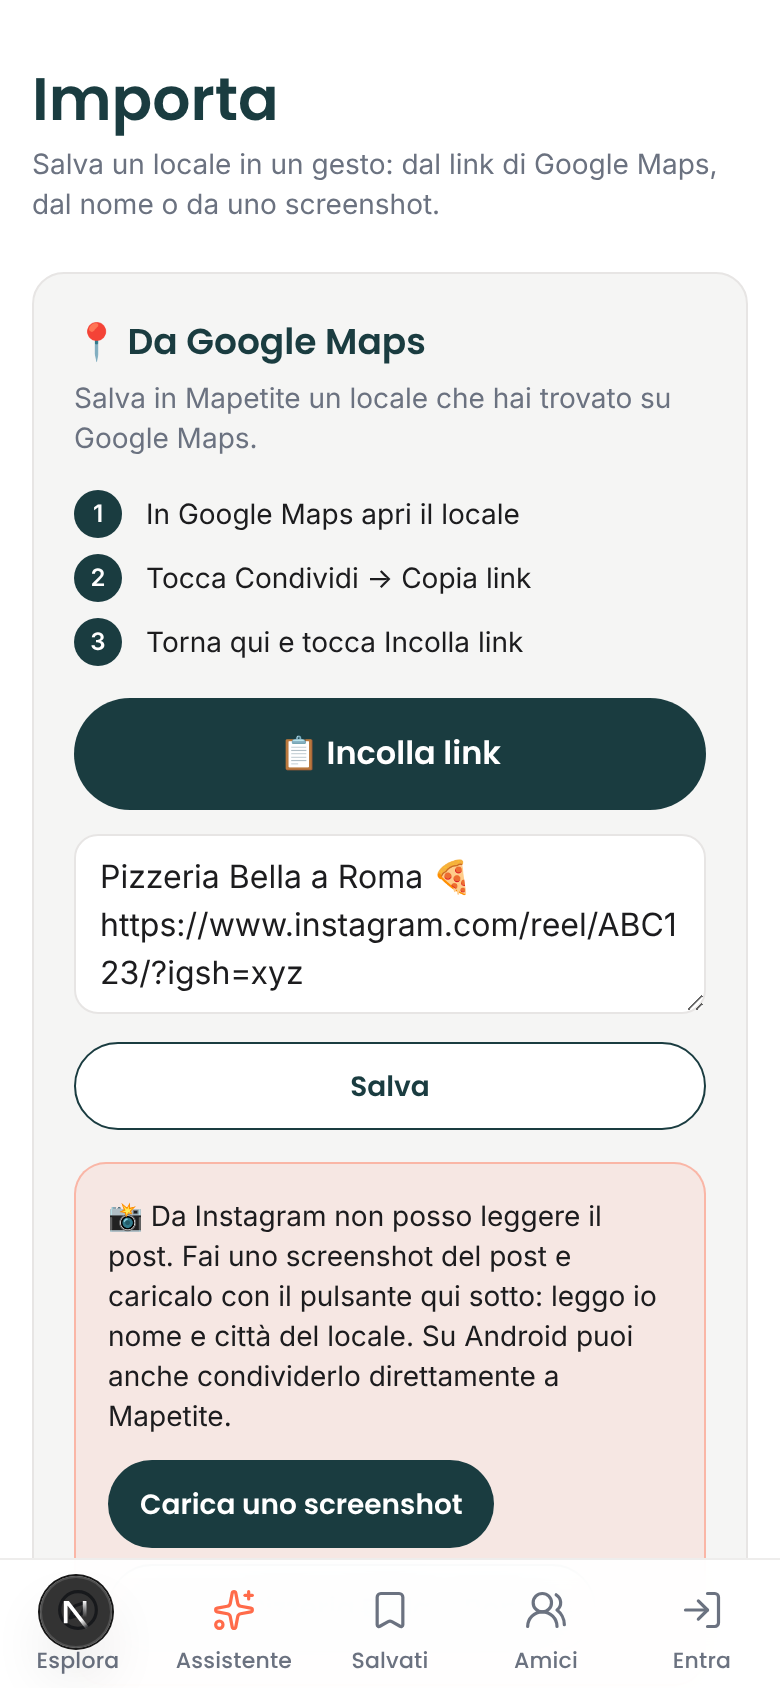
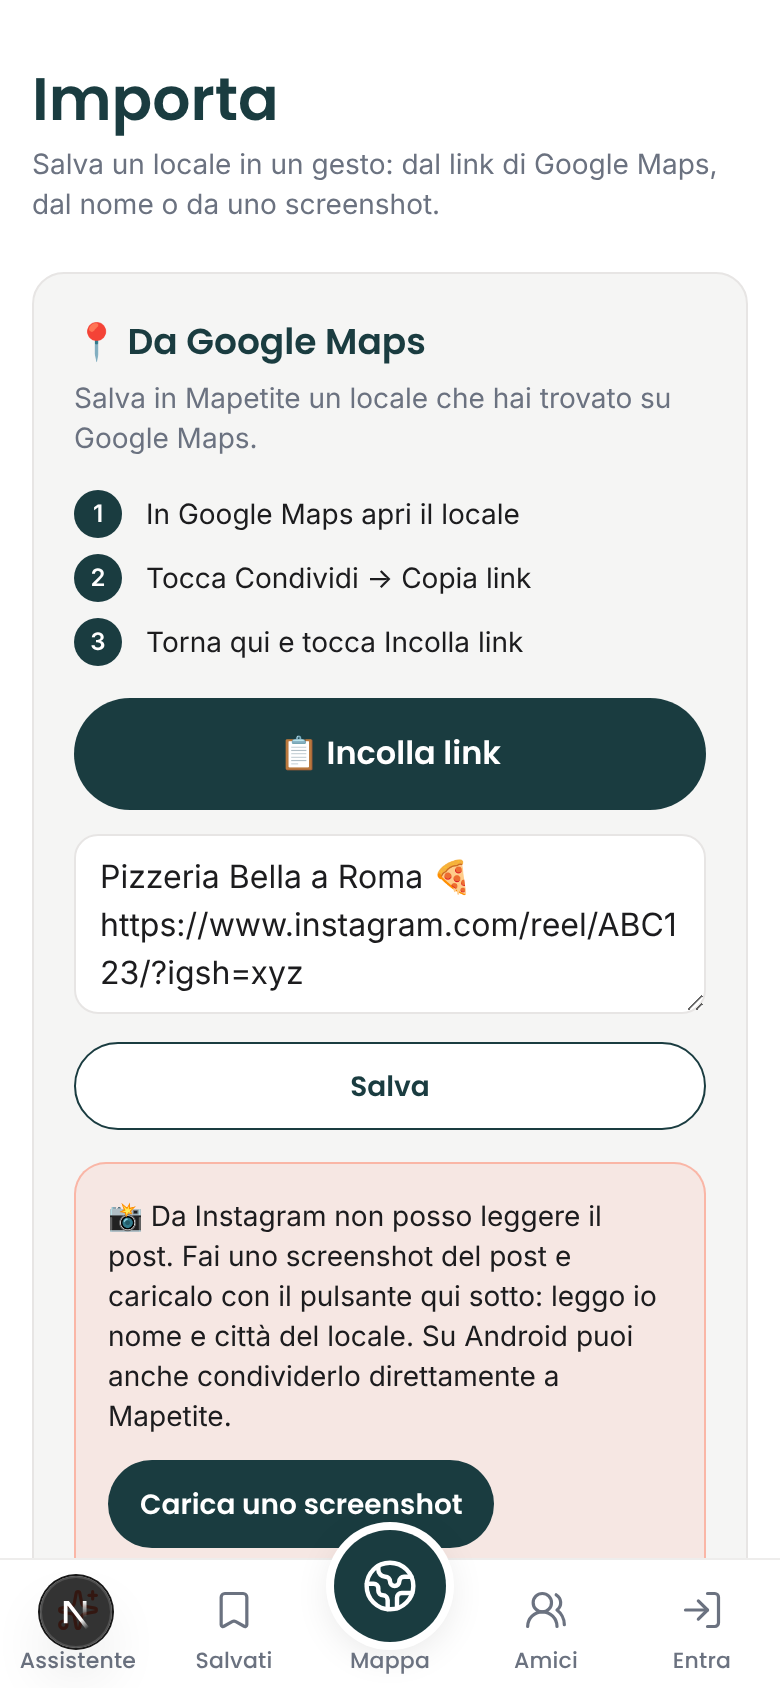
Profilo: niente avviso di idratazione quando una sezione si apre dall'indirizzo (#...); backlog aggiornato
Claude-Session: https://claude.ai/code/session_016dSXuWyLuFunpULUAvNMQo

Changed region(s): [[0.4308, 0.8934, 0.5846, 1.0], [0.2462, 0.9242, 0.3692, 1.0], [0.0308, 0.9242, 0.1538, 1.0]]

diff --git a/src/components/profilo-sezione.tsx b/src/components/profilo-sezione.tsx
@@ -38,7 +38,7 @@ export default function ProfiloSezione({
   }, []);
 
   return (
-    <details ref={ref} id={id} data-testid={testId} className="group scroll-mt-4 border-t border-border first:border-t-0">
+    <details ref={ref} id={id} data-testid={testId} suppressHydrationWarning className="group scroll-mt-4 border-t border-border first:border-t-0">
       <summary className="flex min-h-14 cursor-pointer list-none items-center gap-3 px-4 py-2 active:bg-surface [&::-webkit-details-marker]:hidden">
         <span aria-hidden className="flex h-5 w-5 shrink-0 items-center justify-center text-brand">{icon}</span>
         <span className="min-w-0 flex-1">

diff --git a/docs/autonomia/BACKLOG.md b/docs/autonomia/BACKLOG.md
@@ -8,7 +8,7 @@ L'ordine è la priorità. Lorenzo può riordinare o commentare qui o nelle PR.
 
 ## Avanzamento verso il 25/10
 **Piano fino al 25/10: `PIANO-25-OTTOBRE.md` (si segue quello, in ordine).**
-**In corso adesso:** 16/10 mattina, chiesto da Lorenzo fino alle 10:30 (branch `claude/brave-mccarthy-xop6ic`): schermi più puliti e sintetici — pannello ristoratore, home/mappa e assistente (suggerimenti a scomparsa), profilo e amici, scheda del locale.
+**In corso adesso:** nessuna sessione. **PR #50 da chiudere stanotte (22:00):** semplificazione degli schermi + barra con la Mappa al centro + barra che saliva su iPhone. Manca solo un controllo del giro: 'computer: col mouse sulla seconda card si accende il suo pin' (falliva dopo le modifiche di stamattina; dal vivo con Google vero funziona). Sistemarlo, rifare il giro TUTTO OK, poi merge.
 **Aggiornato 16/10 alle 06:00 (sessione delle 05:00, 4 sviluppatori in parallelo).** Fatto: liste di gruppo con voto (5.5, migrazione applicata); "Dalla community Mapetite" nella scheda: recensioni degli utenti e reel collegati (5.6c–d, migrazione applicata; foto degli utenti rimandate: manca uno spazio file); creator con badge e liste da seguire (5.6b, migrazione applicata, nessun creator nominato ancora); posti in evidenza e trend di zona dimostrativi nel pannello del ristoratore (8.3, 8.4); pagina Premium "in arrivo" (8b); script dell'account demo e copione di 5 minuti (9.2: lo script va lanciato da Lorenzo, all'ambiente non è permesso scrivere utenti in produzione); link "Per i ristoratori" nel profilo. Manca per il 25/10: lanciare l'account demo, nominare 1–2 creator veri, controllo qualità 390/360 (6.6), prove su telefoni veri (9.3).
 **Aggiornato 16/10 alle 03:00 (sessione delle 00:05, 6 sviluppatori in parallelo; PR #46 unita, in produzione).** Fatto: Le mie prenotazioni (1.5b); scheda del locale stile Places con barra azioni fissa e amici (6.2); barra in basso Esplora/Assistente/Salvati/Amici/Profilo (6.4); Salva dall'assistente e frase capita mentre si scrive; eventi dedicati per assistente, prenotazioni e raccolte; diario dei posti provati (4.4, migrazione `visited_at` applicata); versione da computer della mappa (6.5). Seconda PR della notte: serata a tappe (1.2) e Sorprendimi fuori dai salvati (2.5). Terza PR: memoria dei gusti (1.4), incolla più link (3.2), invito tester con primo accesso in 3 schermate (9.1), "Ti è stato utile?" e domanda settimanale (7.6). Manca per il 25/10 (dal piano): 5.5 liste di gruppo, 5.6b–d creator/recensioni/reel,, 8.3–8.4 demo, 9.2 account demo e copione.
 **Aggiornato 15/10 alle 07:15 (sessione delle 05:00).** Fatto: card che non saltano quando arriva il verdetto; carosello che resta sul locale più adatto dopo il riordino; mappa che torna com'era chiudendo la scheda; tolte le pagine vecchie. **Ancora bloccati dall'ambiente (non da Lorenzo):** modificare `LORENZO.md` e leggere/scrivere il database di produzione (migrazione `events`).
